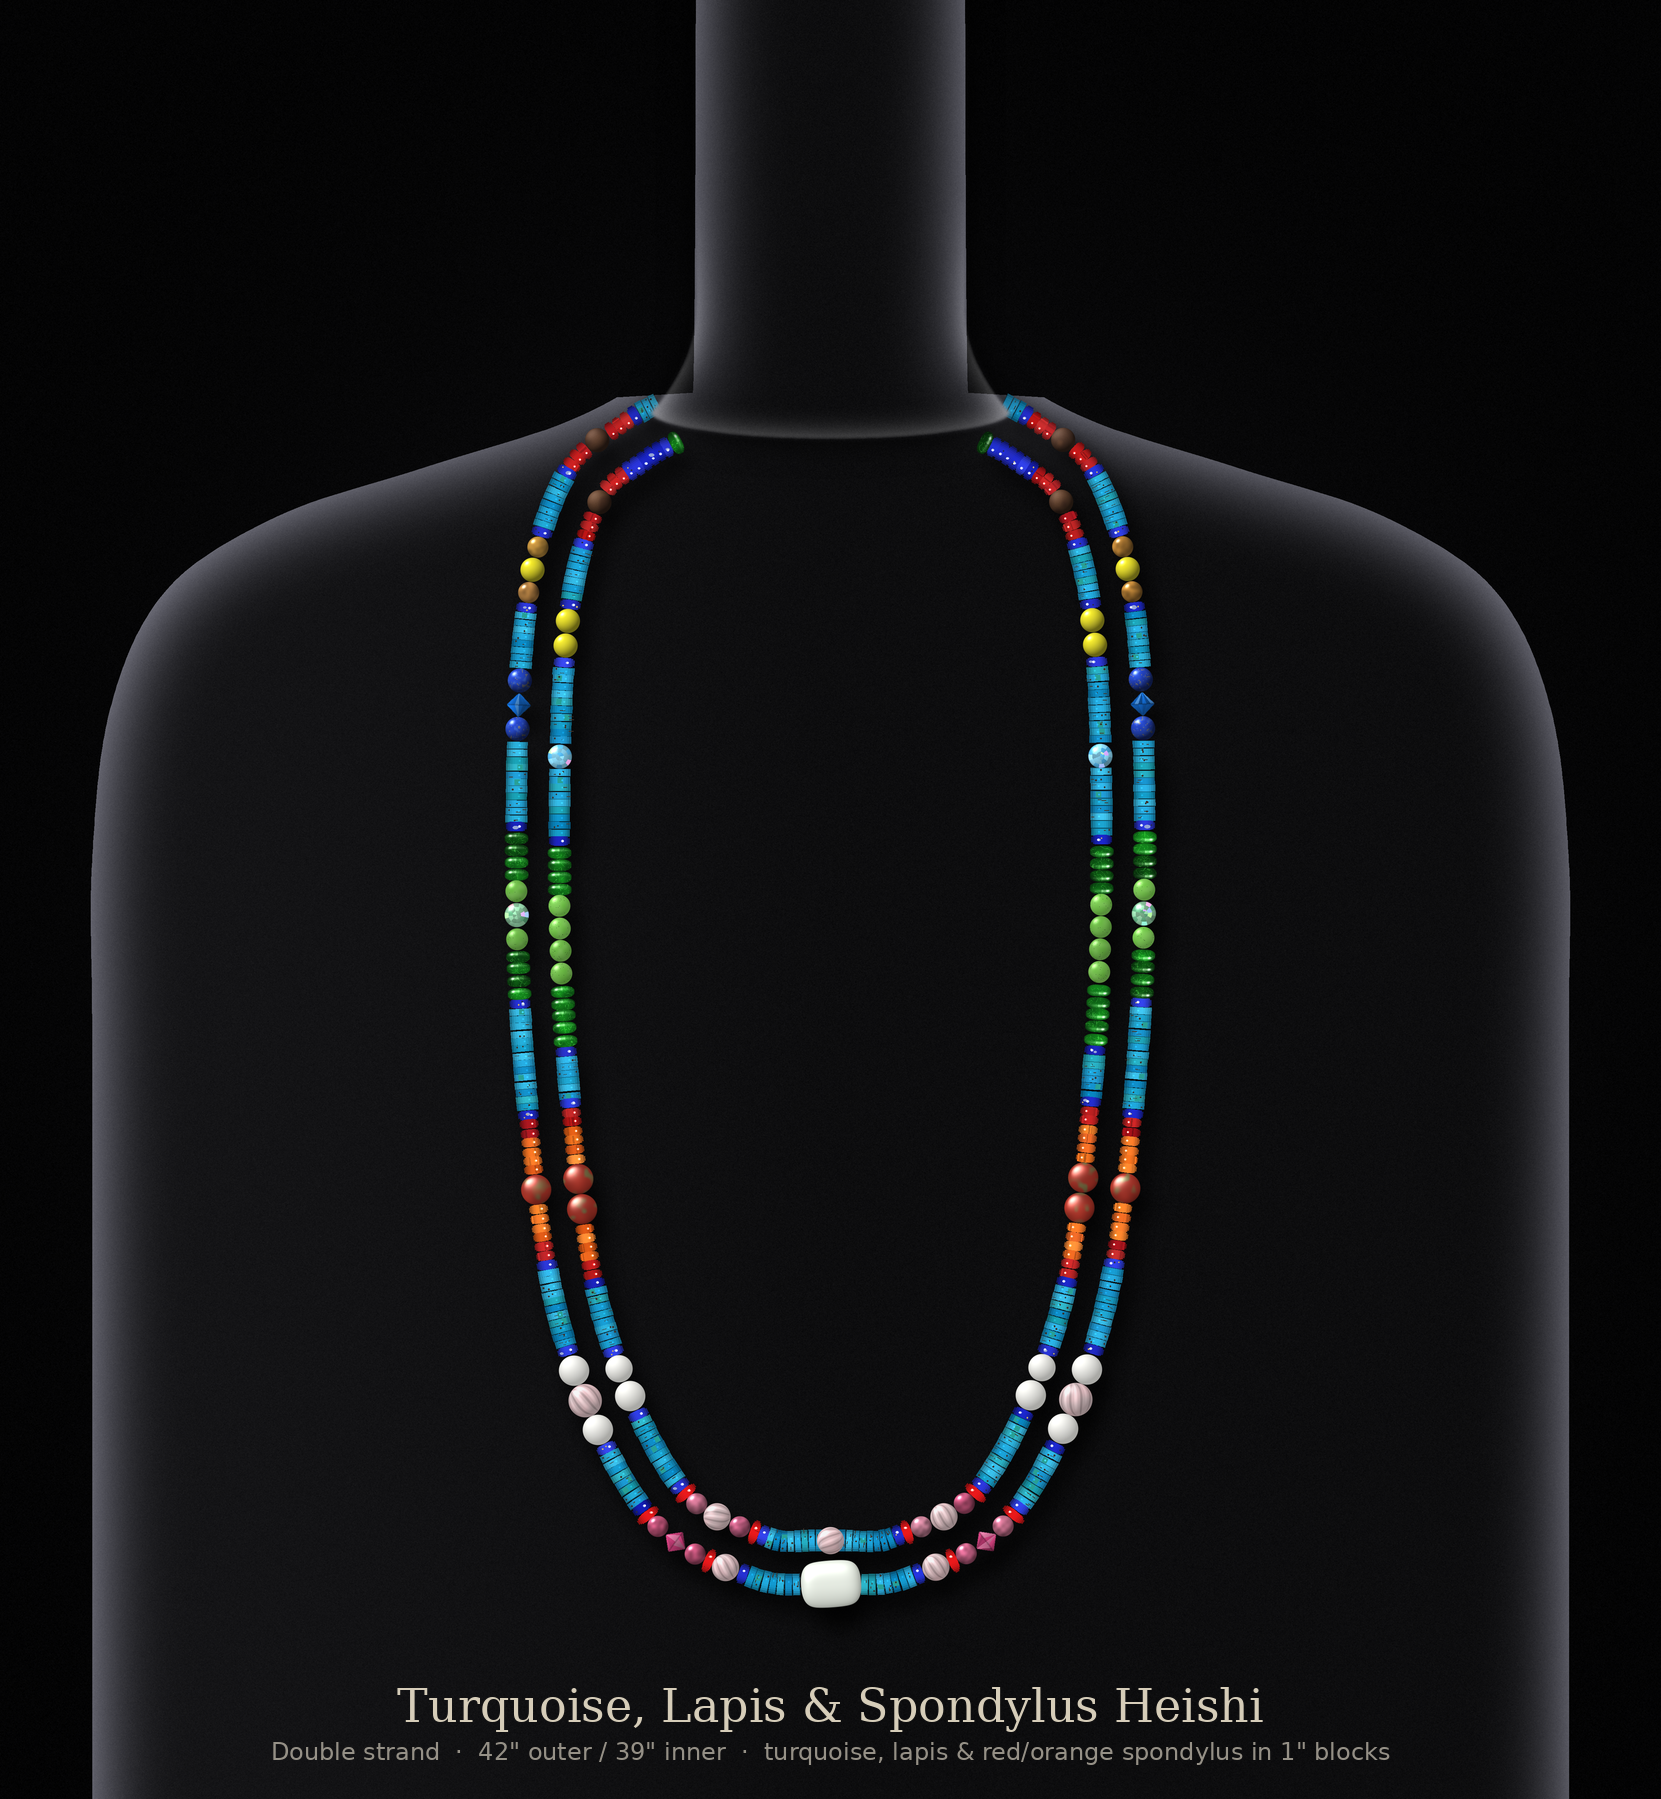
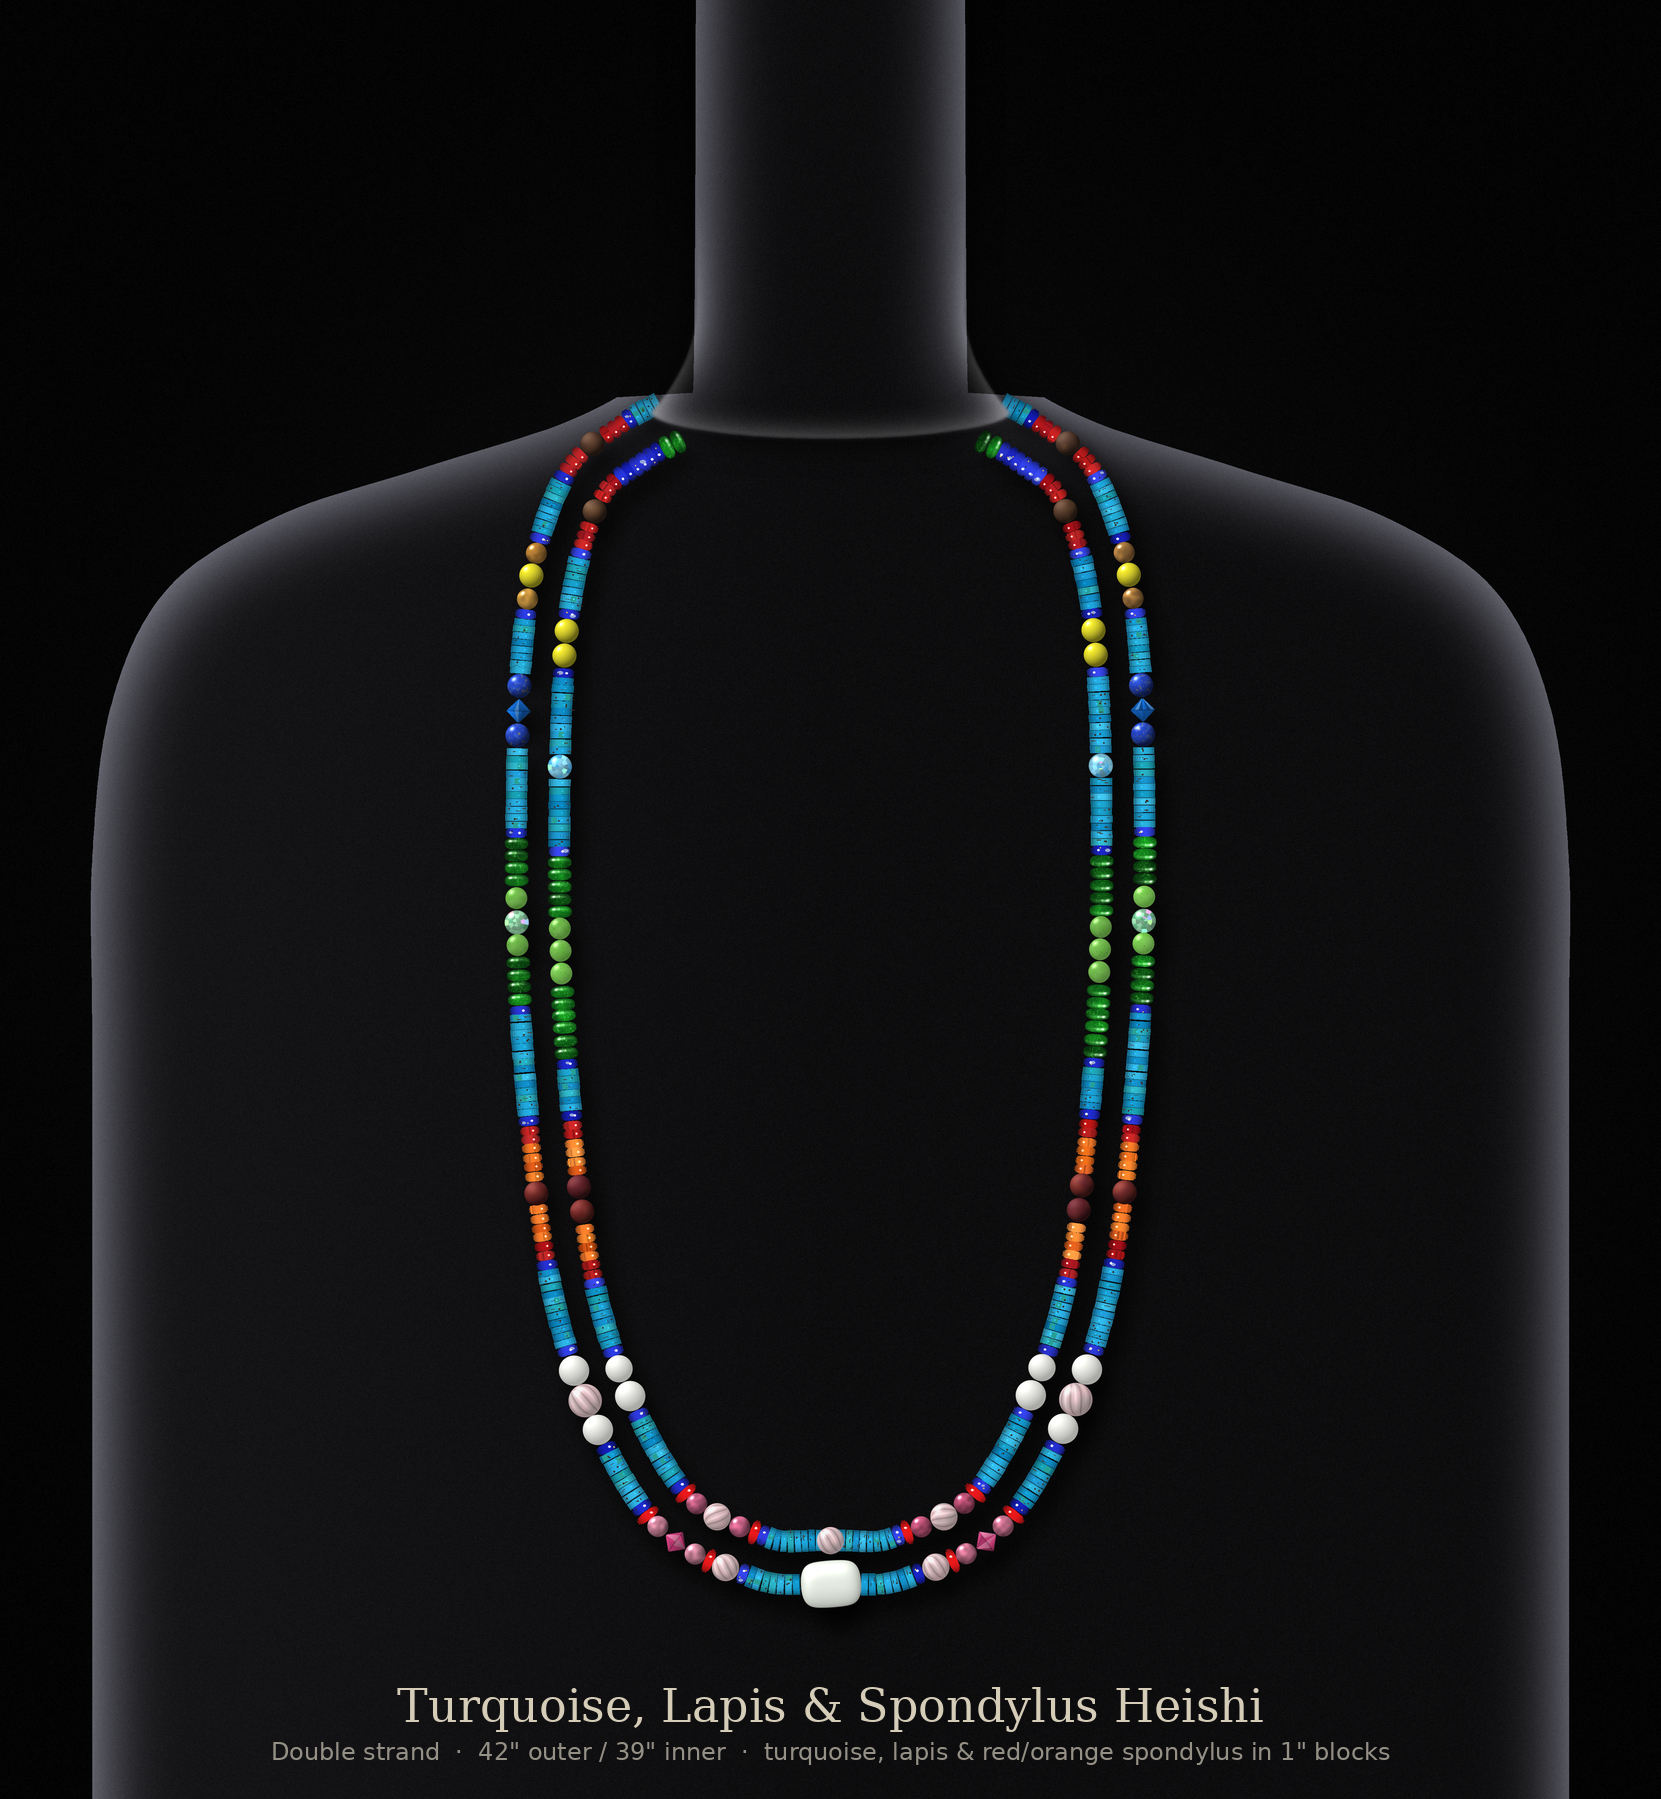
Version 5: maroon 8mm mookaite replaces apple jasper; 10 green jade with diopside fill
Claude-Session: https://claude.ai/code/session_014be1vF4Rdf8sv9Si75Gudv

diff --git a/necklace/render_necklace.py b/necklace/render_necklace.py
@@ -439,7 +439,7 @@ ROSE_D = 9.0
 PER_D, PER_L = 8.0, 4.0              # chrome diopside rondelle: 8 mm across, 4 mm along the strand
 def tsize(t):
     k = t[5] if len(t) > 5 else "tour"
-    return {"rose": ROSE_D, "rose11": 11.0, "tour_ybright": 7.0, "wjade": (10.5 if V3 else 19.7), "conch12": 12.0, "lapis8": 8.0, "conch8": 8.0, "mook8": 8.0, "abgreen8": 8.0, "yellow8": 8.0, "bicone8": 8.0, "gjade7t": 7.3, "v4_gglass": 8.0, "v4_olive": 7.0, "v4_opal10": 10.0, "v4_opal9": 9.0, "v4_rbic": 8.0, "v4_sapph": 8.0, "ajas_t": 10.0, "bicone_lime": 8.0, "peridot": PER_L, "peridot2": 2 * PER_L, "peridot3": 3 * PER_L}.get(k, TOUR_D)
+    return {"rose": ROSE_D, "rose11": 11.0, "tour_ybright": 7.0, "wjade": (10.5 if V3 else 19.7), "conch12": 12.0, "lapis8": 8.0, "conch8": 8.0, "mook8": 8.0, "abgreen8": 8.0, "yellow8": 8.0, "bicone8": 8.0, "gjade7t": 7.3, "v4_gglass": 8.0, "v4_olive": 7.0, "v4_opal10": 10.0, "v4_opal9": 9.0, "v4_rbic": 8.0, "v4_sapph": 8.0, "v5_mookred": 8.0, "ajas_t": 10.0, "bicone_lime": 8.0, "peridot": PER_L, "peridot2": 2 * PER_L, "peridot3": 3 * PER_L}.get(k, TOUR_D)
 tourm = {0: [], 1: []}
 for n in range(0, 42):
     s_o = (n + 0.5) * INCH - HIDDEN_OUT / 2
@@ -931,7 +931,7 @@ if V4:
     SZ = {"diop": PER_L_, "jade": 7.3, "gglass": 8.0, "gtourm": 7.0, "olive": 7.0, "tan": 7.0, "pink": 7.0,
           "black": 7.0, "yellow": 8.0, "opal10": 10.0, "opal9": 9.0, "rq9": 9.0, "rq11": 11.0, "ajas": 10.0,
           "mook": 8.0, "rbic": 8.0, "sapph": 8.0, "lapis8": 8.0, "blueglass": 8.0, "red": 3.0, "orange": 3.0,
-          "redglass": 3.0, "focal": 19.7, "lapisH": 3.0}
+          "redglass": 3.0, "focal": 19.7, "lapisH": 3.0, "mookred": 8.0}
     def F(core, flank, n):                     # wrap a core with n flank beads split either side
         a = n // 2; b = n - a
         return [flank] * a + core + [flank] * b
@@ -954,6 +954,10 @@ if V4:
                       for i, b in enumerate(BANDS_RAW)]
         # room for the new borders comes from the top green band: fewer chrome diopside there
         BANDS[1] = (F(["olive"], "diop", 3), F(["gtourm"], "diop", 3))
+        # only 10 green jade: inner green band keeps 3 jade, the lost jade's space goes to 2 more chrome diopside
+        BANDS[5] = (BANDS[5][0], F(["jade", "jade", "jade"], "diop", 11))
+        # 8 mm maroon mookaite replaces the 10 mm apple jasper
+        BANDS[6] = tuple([("mookred" if k == "ajas" else k) for k in b] for b in BANDS[6])
         # frame the green, red-orange and white bands with one lapis heishi at each end, both strands
         for _bi in (2, 3, 5, 6, 7, 8):   # red, yellow, green, red-orange, white, pink
             BANDS[_bi] = tuple(["lapisH"] + list(b) + ["lapisH"] for b in BANDS[_bi])
@@ -992,7 +996,7 @@ if V4:
     LAP_BUDGET = {0: 15, 1: 15}                # lapis heishi used as dark filler, from the top down (per side)
     KIND_T = {"diop": "peridot", "jade": "gjade7t", "gglass": "v4_gglass", "gtourm": "tour_green", "olive": "v4_olive",
               "tan": "tour_yellow", "pink": "tour_pink", "black": "tour_black", "yellow": "bicone_lime",
-              "opal10": "v4_opal10", "opal9": "v4_opal9", "rq9": "rose", "rq11": "rose11", "ajas": "ajas_t",
+              "opal10": "v4_opal10", "opal9": "v4_opal9", "rq9": "rose", "rq11": "rose11", "ajas": "ajas_t", "mookred": "v5_mookred",
               "mook": "mook8", "rbic": "v4_rbic", "sapph": "v4_sapph", "blueglass": "conch8", "focal": "wjade"}
     HEI = {"red": 2, "orange": 3, "redglass": 5}
     beads_out, beads_in = [], []
@@ -1707,7 +1711,7 @@ def conch_sprite(seed, diam=8.0):
 MOOK_SETS = [((92, 62, 44), (112, 78, 52)), ((84, 56, 42), (104, 70, 50)), ((98, 66, 46), (82, 54, 40)),
              ((88, 60, 46), (110, 74, 54))]   # dark matte brown mookaite only
 
-def mook_sprite(seed, diam=8.0):
+def mook_sprite(seed, diam=8.0, maroon=False):
     """8 mm matte mookaite jasper: mustard, burgundy, plum and cream, softly mottled, frosted finish."""
     rng = np.random.default_rng(seed + 19000)
     n = int(diam * S)
@@ -1717,6 +1721,8 @@ def mook_sprite(seed, diam=8.0):
     rr = np.hypot(nx_, ny_)
     z = np.sqrt(np.clip(1 - rr ** 2, 0, 1))
     a, b = MOOK_SETS[rng.integers(len(MOOK_SETS))]
+    if maroon:                               # matte maroon / reddish-plum mookaite
+        a, b = [((122, 42, 40), (140, 58, 50)), ((104, 36, 44), (126, 48, 52)), ((132, 50, 44), (110, 40, 46))][rng.integers(3)]
     m = np.array(Image.fromarray((rng.random((4, 4)) * 255).astype(np.uint8)).resize((n, n), Image.BICUBIC), float) / 255
     m = np.clip((m - 0.35) * 1.8, 0, 1)[..., None]
     base = np.array(a) * (1 - m) + np.array(b) * m
@@ -2026,6 +2032,11 @@ for st in (0, 1):
             continue
         if len(t) > 5 and t[5] in ("v4_opal10", "v4_opal9"):
             spr = milky_opal_sprite(tseed, 10.0 if t[5] == "v4_opal10" else 9.0)
+            px, py = P(x, y)
+            layer.paste(spr, (int(px - spr.width / 2), int(py - spr.height / 2)), spr)
+            continue
+        if len(t) > 5 and t[5] == "v5_mookred":
+            spr = mook_sprite(tseed, maroon=True)   # 8 mm matte maroon mookaite
             px, py = P(x, y)
             layer.paste(spr, (int(px - spr.width / 2), int(py - spr.height / 2)), spr)
             continue
